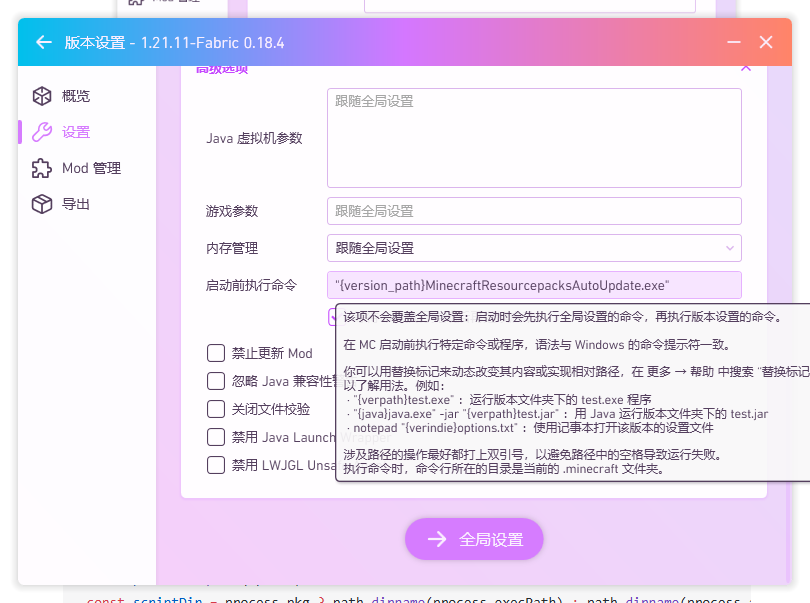
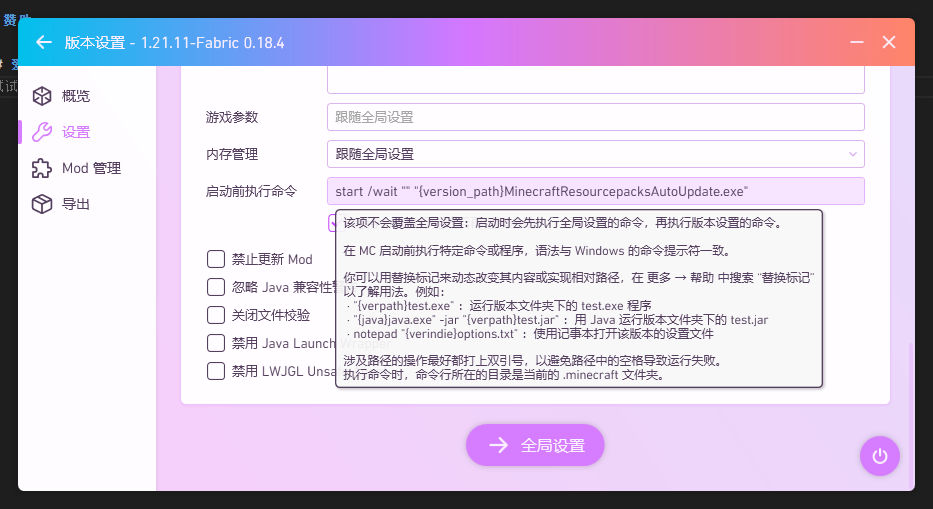
20260407-3
20260407-3

diff --git a/docs/application/MinecraftResourcepacksAutoUpdate.md b/docs/application/MinecraftResourcepacksAutoUpdate.md
@@ -19,7 +19,7 @@
    ![](/public/PCL-版本文件夹.png)
 3. 设置PCL启动前执行命令
    ```PCL-启动前执行的命令
-   "{version_path}MinecraftResourcepacksAutoUpdate.exe"
+   start /wait "" "{version_path}MinecraftResourcepacksAutoUpdate.exe"
    ```
    - 通过PCL打开版本文件夹;打开PCL-版本设置-设置-高级选项-启动前执行命令;
    ![](/public/PCL-启动前执行命令.png)
